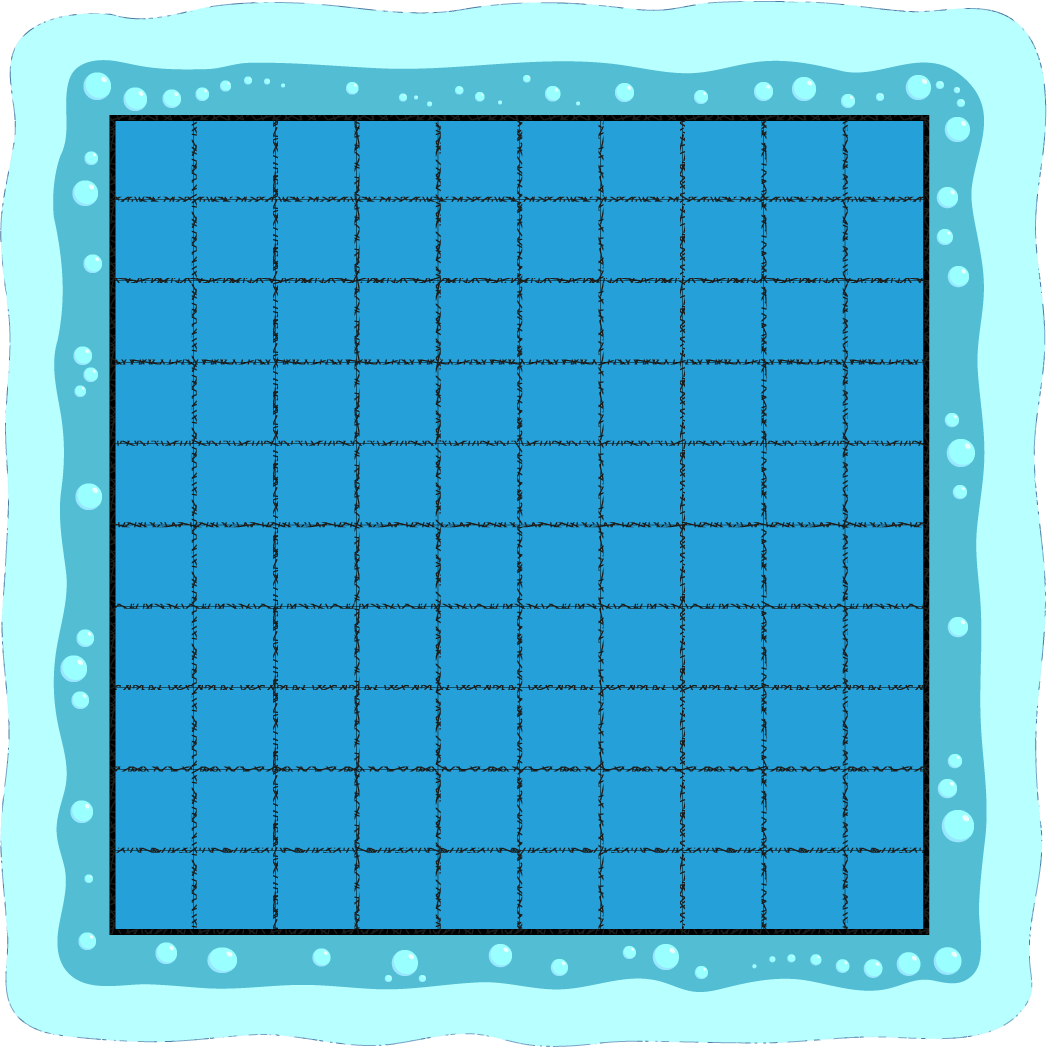
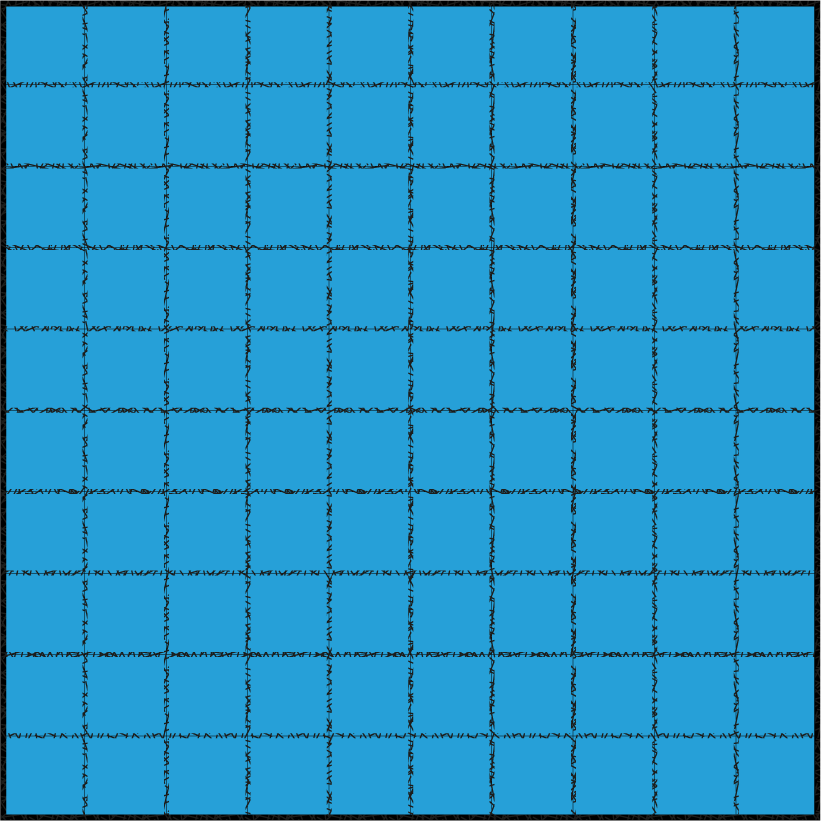
modified

diff --git a/scripts/show_ships.js b/scripts/show_ships.js
@@ -1,5 +1,8 @@
 const loadShips = document.getElementById('loadShips');
 const ships = document.getElementById('ships');
+window.onresize = function() {
+	toPosition();
+}
 
 loadShips.addEventListener('click', () => showShips(to_move));
 
@@ -25,6 +28,7 @@ move.onmousedown = function(e) {
 
             dragObject.onmouseup = function(e) {
 				dragObject.style.zIndex = 900;
+				//dragObject.style.position = 'relative';
                 dragObject = null;
             };
 
@@ -44,11 +48,33 @@ function getCoords(elem) {
   
 	return {
 	  top: box.top,
-	  left: box.left
+	  left: box.left,
+	  bottom: box.top + box.height,
+	  right: box.left + box.width
 	};
 }
 
-move.ondragstart = function() {
+var n;
+var sss;
+function toPosition() {
+	sss = 10;
+	move.children[0].style.left = getCoords(loadShips).left + 'px';
+	move.children[0].style.top = getCoords(loadShips).bottom + 20 + 'px' ;
+	var l = move.children.length;
+	for(let i = 1; i < l - 2; i++) {
+		n = move.children[i];
+		n.style.left = getCoords(move.children[i -1]).left + 'px';
+		n.style.top = getCoords(move.children[i -1]).bottom + 3 + 'px';
+	}
+	move.children[l-2].style.left = getCoords(move.children[l-4]).right + 4 + 'px';
+	move.children[l-2].style.top = getCoords(move.children[l-4]).top + 'px';
+	move.children[l-1].style.left = getCoords(move.children[l-3]).right + 4 + 'px';
+	move.children[l-1].style.top = getCoords(move.children[l-3]).top + 'px';
+
+}
+
+document.ondragstart = function() {
 	return false;
 }
 
+toPosition();

diff --git a/battle.html b/battle.html
@@ -8,7 +8,8 @@
 	<title>Battle</title>
 </head>
 
-<body>
+<body onload="toPosition()">
+	
 	<header>
 		<h1 class="header__text__h1">Placement of Ships</h1>
 	</header>
@@ -18,14 +19,15 @@
 			//document.getElementById("debug").innerHTML = "New text!";
 		</script>
 		<div class="battlefield">
-			<img src="../assets/images/field_sea.png" alt="field_sea">
+			<img id="sea_backgroung"src="../assets/images/field_sea_background.png" alt="field_sea">
+			<img id="field" src="../assets/images/field_sea.png" alt="field_sea">
 		<div class="plc_bot">
 			<ul>
 				<li>
 					<button type="button" class="pressed-button"><b>Random</b></button>
 				</li>
 				<li>
-					<button id="loadShips" type="button" class="pressed-button"><b>By your self</b></button>
+					<button id="loadShips" type="button" class="pressed-button" onclick="toPosition()"><b>Clear</b></button>
 				</li>
 
 			</ul>
@@ -40,6 +42,8 @@
 					<img class="ship" id="ship1_2" src="../assets/images/Ship1.png" alt="submarine">
 					<img class="ship" id="ship1_3" src="../assets/images/Ship1.png" alt="submarine">
 					<img class="ship" id="ship1_4" src="../assets/images/Ship1.png" alt="submarine">
+					
+				
 			</div>
 		</div>
 		</div>

diff --git a/styles/battle_style.css b/styles/battle_style.css
@@ -76,8 +76,12 @@ html {
 	color: #000080;
 }
 /* ///////////////////////////////////// */
-#to_move {
-	display: none;
+/*#to_move {
+	//display: none;
+}*/
+
+.ship {
+	position: absolute;
 }
 
 #container {
